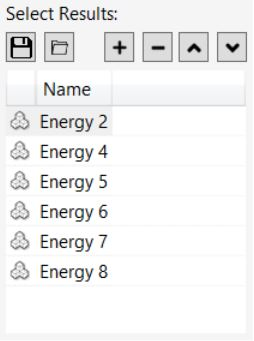
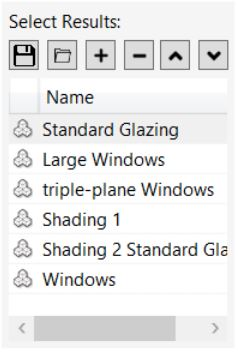
update result names and screenshots

diff --git a/docs/results.rst b/docs/results.rst
@@ -2,7 +2,7 @@
 Results Panel
 ================================================
 .. figure:: images/Results.jpg
-   :width: 300px
+   :width: 400px
    :align: center
 
 The results panel is activated once a simulation is in progress (finished its first pass) or complete. The top part of the results panel shows previously run ClimateStudio simulations for the current project in a table. ClimateStudio saves all simulation results in a sub directory located in the same directory as the Rhino file called ``Rhino file name - CS.`` Results can be loaded or unloaded from the Results panel overview table. When a result is selected (by left-clicking on it), it is displayed in the lower part of the results panel as well as the Rhino viewport, if applicable. 
@@ -12,7 +12,7 @@ Results Organization
 Results should be named according to their main design feature such as the glazing type, if that has been modified. While results are stored in a binary format, their content can be exported in CSV or other formats.  
 
 .. figure:: images/resultsPanel.jpg
-   :width: 900px
+   :width: 400px
    :align: center
 
 
